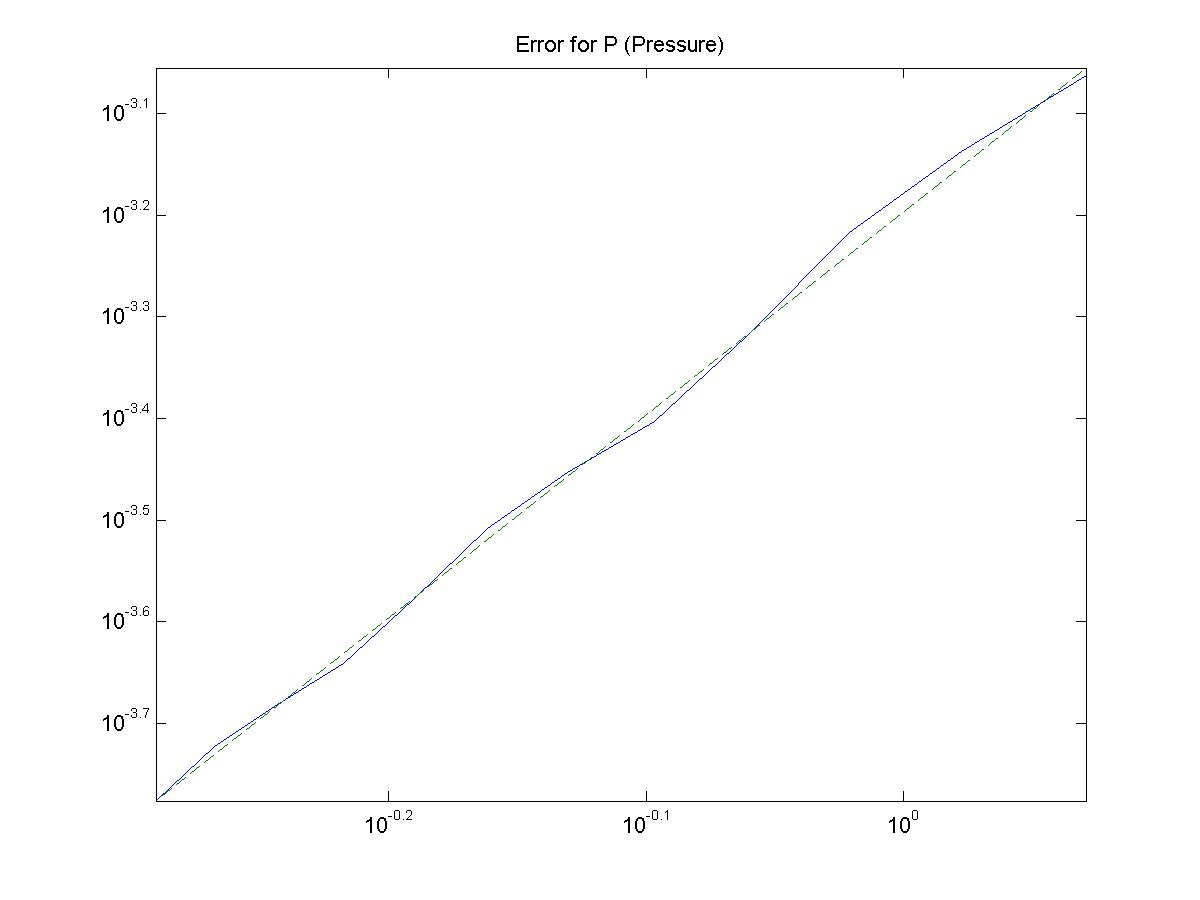
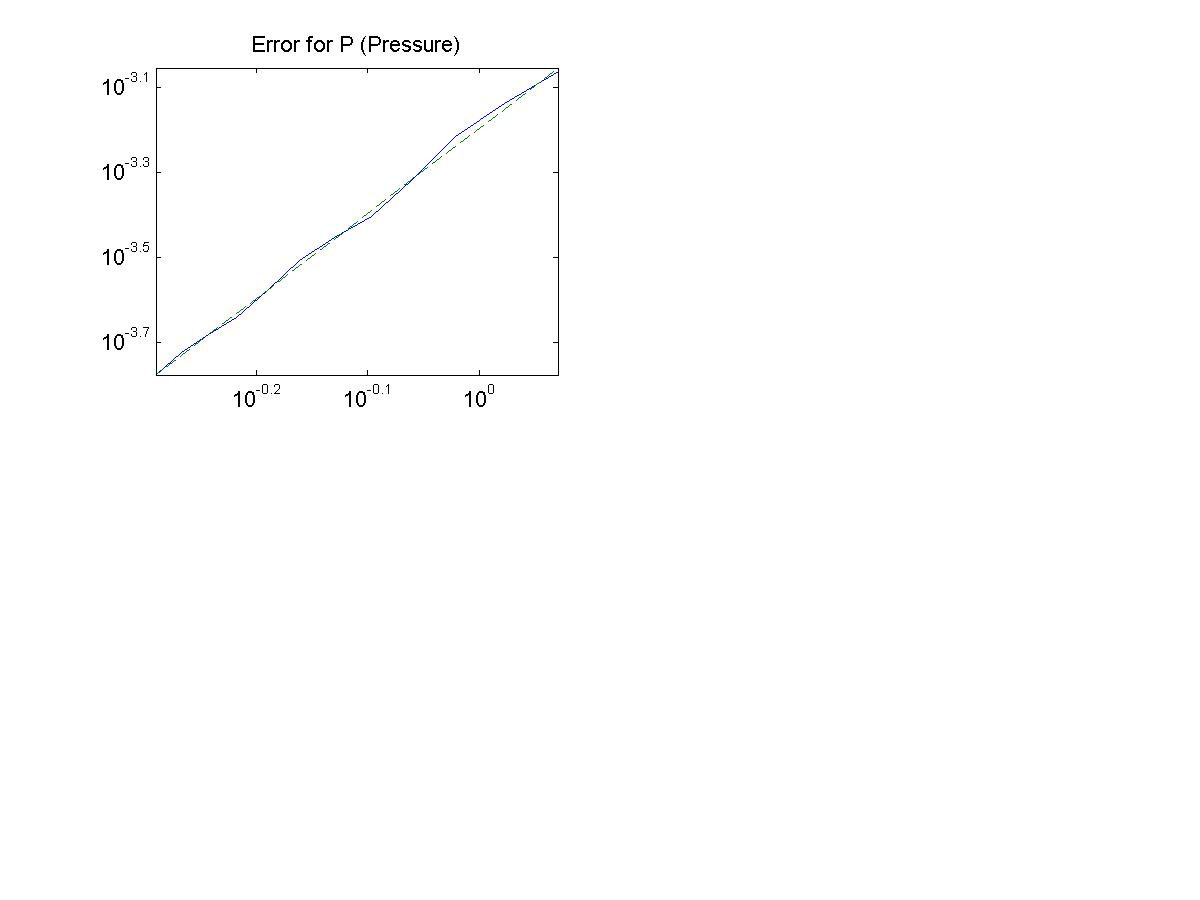
Final Check-in before presentation

diff --git a/Main.m b/Main.m
@@ -134,7 +134,9 @@ if checkError
     print('LocalPError', '-djpeg');
 
     save('data.mat','dx','L2EP','L2EU','L2EV');
+    
     figure()
+    subplot(2,2,1);
     loglog(dx,L2EP,'-',dx, dx.^2 *  L2EP(end) / dx(end)^2,'--');
     %loglog(dx,L2EP,'-',dx,dx.^2,'--');
     title('Error for P (Pressure)');
@@ -143,20 +145,34 @@ if checkError
     %loglog(d,L2EP,'-',d,L2EP(1)-d(1) + d,'r--',d,L2EP(1)-d(1)^2 + d.^2,'g--');
     %title('L2 Error for P (Pressure)');
 
-    figure()
+    subplot(2,2,2);
     loglog(dx,L2EU,'-',dx,dx.^2 *  L2EU(end) / dx(end)^2,'--');
     title('Error for U (Horizontal Velocity)');
     print('_L2EU', '-djpeg');
 
-    figure()
+    subplot(2,2,3);
     loglog(dx,L2EV,'-',dx,dx.^2 *  L2EV(end) / dx(end)^2,'--');
     title('Error for V (Vertical Velocity)');
     print('_L2EV', '-djpeg');
 end
 
-%%%%%%%%%%%%%%%%%%%%%%%%%%%%Benchmark%%%%%%%%%%%%
-
+%%%%%%%%%%%%%benchmark%%%%%%%%%%%%%%%%
+REPS = 10;
+num = [25 50 75 100];
 tic;
-[ p u v x y xp yp numXCells numYCells dx(i)] = Stokes2DPC(g, 50, p0, mu, height, width, R, L, timeSteps, 0);
-toc;
+for i = 1:4
+    for j = 1:REPS
+        [ p u v x y] = Stokes2DPC(g, num(i), p0, mu, height, width, R, L, timeSteps, 0);
+    end
+    averageTime(i) = toc / REPS;
+end
 
+averageTime
+
+figure()
+plot(num,averageTime);
+title('Execution Time vs. Number of Discretization Points');
+xlabel('M');
+ylabel('Execution Time (s)');
+
+%%%%%%%%%%%%%%%%%%%%%%%%%%%%%%%%%%%%%%

diff --git a/Stokes2DPC.m b/Stokes2DPC.m
@@ -61,6 +61,7 @@ for t = 1:numTimeSteps  %This loop will surround the entire algoritm
 %Set initial condition for u, flow of 0
 if(t == 1)
     uinit = zeros(numXCells*numYCells);
+    vinit = zeros(numXCells*numYCells);
     for i=1:numXCells
         for j=1:numYCells
             uinit(ind(i,j), t) = 0;
@@ -70,8 +71,6 @@ if(t == 1)
 end  
     
     %%%%%%%%%%%%%%%%%%%%%%%%%%%Step 1 of algorithm%%%%%%%%%%%%%%%%%%%%%%%%%
-    %Question:  Assume small strain tensor is symmetric, so transpose goes away?
-    %Random Question:  Do they ever use FFT to solve these?
     
     %u_star = u + mu*(uxx + uyy) + F1
     %v_star = v + mu*(vxx + vyy) + F2
